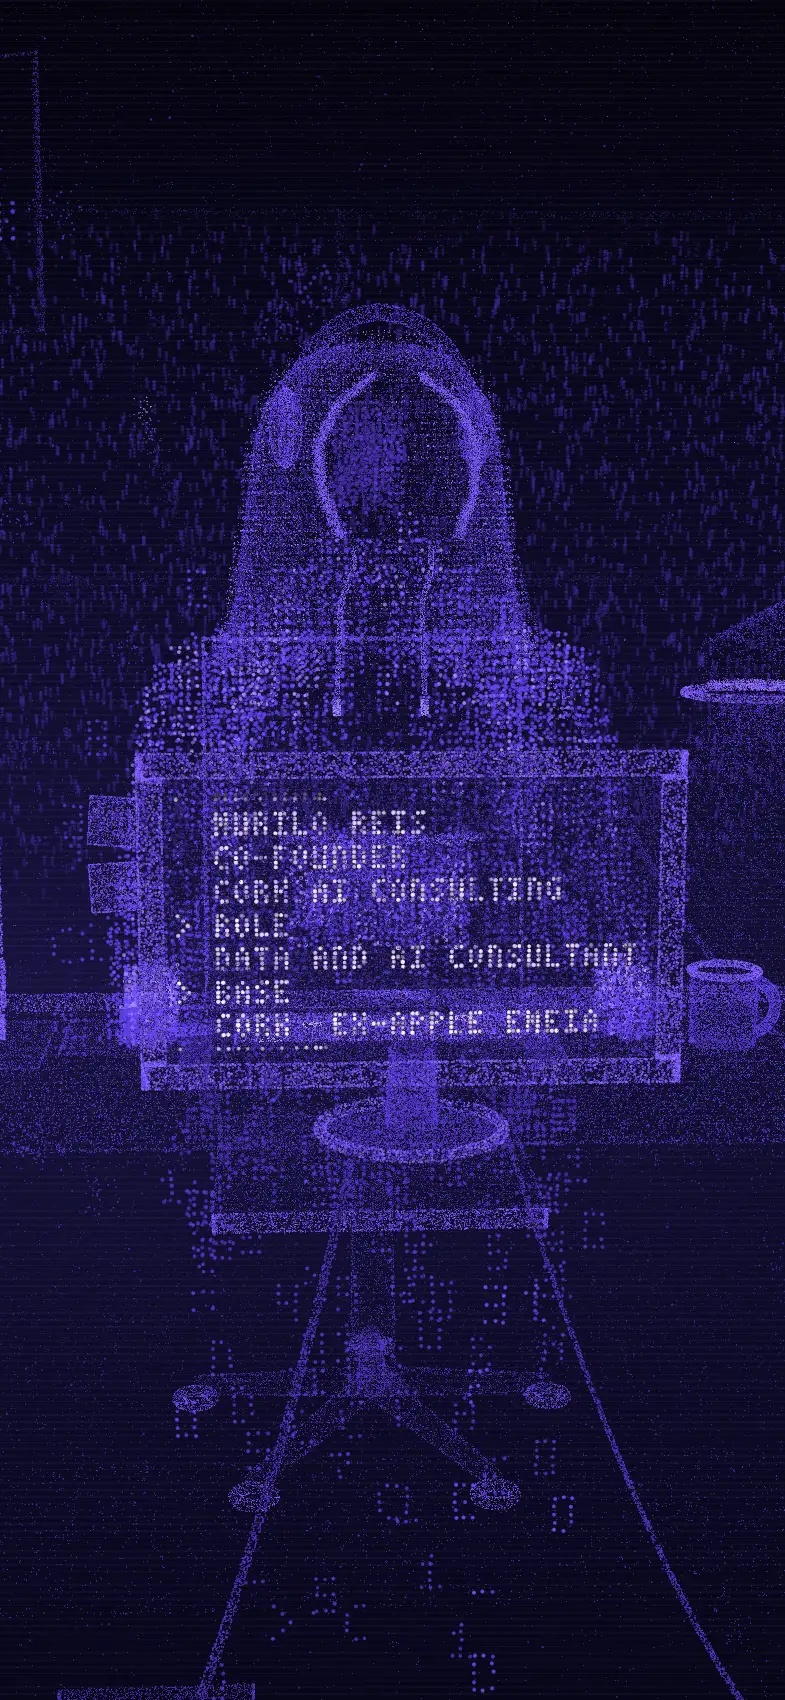
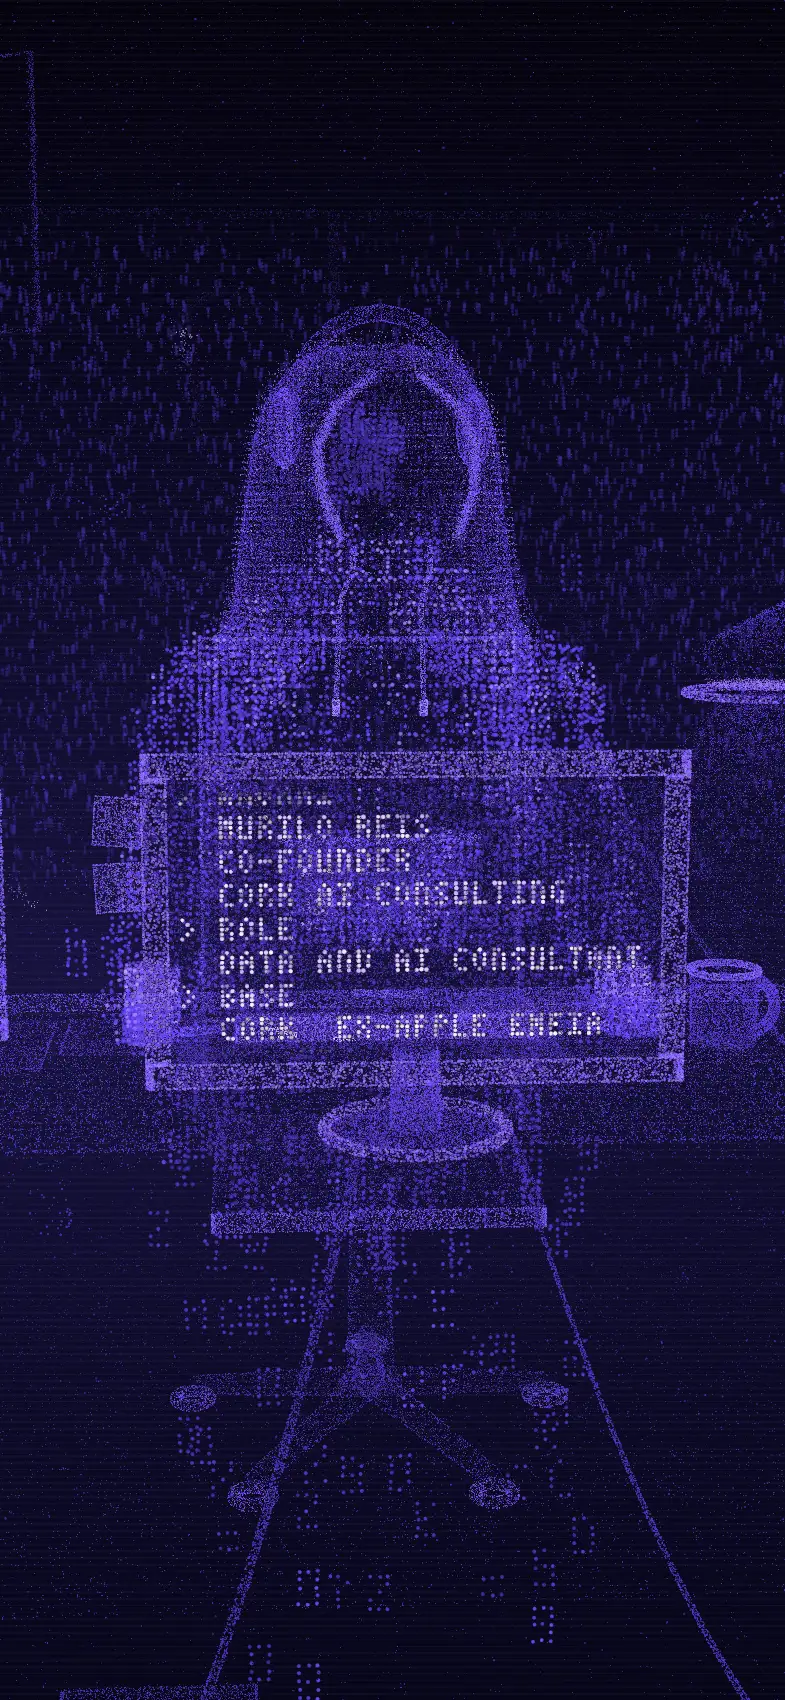
Polish: HUD cursor ring, glidier intro dolly, screen light cast, HUD kickers, experience aligned with LinkedIn
- cursor.ts: a lagging ring that squares into brackets over links (fine
  pointers, motion allowed only).
- Intro: 1.1 Hz scroll spring and ease-in dolly; the monitor now casts
  light onto the desk, keyboard, hands and chest. Posters regenerated.
- Case studies: section kickers in the HUD language, screens zoom on hover.
- Home: portrait gets the corner frame.
- experience.ts mirrors the LinkedIn experience entries (tools lines,
  intros, extra bullets). The LinkedIn 30% efficiency figure is left out
  pending confirmation.

diff --git a/src/data/experience.ts b/src/data/experience.ts
@@ -27,28 +27,32 @@ export const experience: Role[] = [
     logo: '/images/logo-icon.png',
     intro:
       'AI, data and automation for small and mid-sized Irish businesses, co-founded with Douglas Woollam. Every engagement is scoped around a <strong>measurable outcome</strong> — hours returned or cost avoided — and run end to end: discovery, build, validation, handover.',
-    tools: 'Claude Code · Codex CLI · Claude API · MCP · Python · SQL · JavaScript/Node · Swift · Playwright · Vercel · Notion',
+    tools: 'Claude Code · Codex CLI · Claude API · MCP · Python · SQL · JavaScript/Node · Swift · Playwright · n8n · Tableau · Power BI · GCP · Vercel · Notion',
     points: [
       'Built the delivery engine for the <strong>AI Opportunity Assessment</strong>: an agent that turns a discovery-call transcript into a client-branded, ROI-backed report, with an honesty gate that blocks any claim the client didn’t support. Delivered to the first client before launch.',
       'Built a <strong>guardrailed Instagram DM assistant</strong> on Meta’s Messenger Platform that answers customer enquiries 24/7 within strict rules, so it never gives a made-up answer.',
-      'Turned <strong>28 standalone AI workflows</strong> into a shared, version-controlled skills library, and built a knowledge base that syncs Git and Notion automatically as one source of truth.',
-      'Co-built and shipped <strong>BlarneyKey</strong>, a free, open-source macOS dictation app that runs Whisper on the Apple Neural Engine fully offline.',
+      'Designed and launched the company’s <strong>products showcase and site experience</strong>, including a live interactive demo of BlarneyKey, our free, private, offline AI dictation app for macOS — co-built and shipped with Whisper running on the Apple Neural Engine.',
+      'Turned <strong>28 standalone AI workflows</strong> into a shared, version-controlled skills library, so both founders run the same automations for research, content, transcripts and client delivery from one Git repository.',
+      'Built a <strong>self-maintaining knowledge base</strong> that keeps the Git repository and the Notion workspace in sync automatically — one source of truth for decisions, next actions and client history.',
+      'Engineered the <strong>outreach tooling with safety at its core</strong>: approval-gated sending, account-protection rules and recovery plans that keep every customer-facing message under human control.',
+      'Bring enterprise-scale analytics experience to small and medium businesses, starting every engagement with the <strong>AOA framework</strong> (Audit, Optimise, Automate).',
     ],
     tags: ['Co-founder', 'AI agents', 'Outcome-scoped', 'Cork, Ireland'],
   },
   {
-    role: 'Data Analyst',
+    role: 'Data Analyst, EMEIA Sales BPR &amp; Systems',
     org: 'Apple',
     dates: 'Nov 2025 — Oct 2026',
     place: 'Cork, Ireland (Hybrid)',
-    intro: 'EMEIA Sales Business Process Re-engineering &amp; Systems.',
-    tools: 'Python (Pandas, Playwright, Selenium) · Snowflake · SQL · Tableau · Claude Code · Excel',
+    intro: 'Apple’s EMEIA Sales Business Process Re-engineering &amp; Systems team, working across data engineering, analytics and automation.',
+    tools: 'Python (Pandas, Playwright, Selenium) · SQL · Snowflake · Spark · Azure · Tableau · Claude Code · Excel',
     points: [
       'Built pipelines, automations and dashboards that Account Executives and senior leadership used to run and track <strong>multi-billion-dollar sales programmes</strong> across EMEIA.',
       'Co-built an automated <strong>Python, Playwright, Snowflake and Claude Code agent pipeline</strong> that approves or rejects customers against programme business rules, eliminating hours of daily manual review and sharply reducing false rejections.',
       'Developed Playwright browser-automation workflows replacing manual data collection, validation and reporting for the team.',
       'Built <strong>Tableau dashboards on live Snowflake data</strong>, giving programme leadership visibility of sales performance, KPIs and underperforming regions.',
       'Built predictive scripts and statistical models on programme sales data to support forecasting and targeted outreach to historical customers.',
+      'Supported sales business process re-engineering across regions by managing large-scale datasets and enforcing data accuracy and integrity in every report the team shipped.',
     ],
     tags: ['EMEIA Sales', 'Agent pipeline', 'Snowflake · Tableau'],
   },
@@ -58,6 +62,8 @@ export const experience: Role[] = [
     dates: 'Oct 2024 — Sep 2026',
     place: 'Remote',
     logo: '/images/logo-icon.png',
+    intro: 'Data and automation projects for multiple clients, from first consultation to deployed solution. Continued as Cork AI Consulting from September 2026.',
+    tools: 'Python (Pandas, Playwright, Selenium) · SQL · Spark · BigQuery · Azure · RPA (UiPath, PyAutoGUI) · n8n · Zapier · Power BI · Git',
     points: [
       '<strong>Reduced manual effort by up to 80%</strong> for client teams with custom Python and RPA automation, turning hours of multi-system handling into unattended scheduled runs.',
       'Managed the full lifecycle for several concurrent clients, from consultation to deployed data and automation solutions, with documented handovers in Git/GitHub/GitLab.',
@@ -71,11 +77,14 @@ export const experience: Role[] = [
     dates: 'Nov 2022 — Oct 2024',
     place: 'São Paulo, Brazil',
     logo: '/images/logos/porto.png',
+    intro: 'Management Information area of Porto, one of Brazil’s largest insurance groups: the data pipelines, automations and dashboards behind the area’s daily reporting.',
+    tools: 'Python (Pandas, NumPy, Selenium, BeautifulSoup, PyAutoGUI) · SQL · Google BigQuery · GCP · Looker Studio · AppSheet · Google Apps Script · n8n · Excel',
     points: [
-      'Engineered and maintained scalable <strong>ETL pipelines moving terabytes</strong> of data from disparate sources into <strong>Google BigQuery</strong>, enforcing integrity and governance.',
+      'Engineered and maintained scalable <strong>ETL pipelines moving terabytes</strong> of data from CSV, Excel, TXT and legacy sources into <strong>Google BigQuery</strong>, enforcing integrity and governance.',
       'Optimised warehouse performance with complex SQL and stored procedures, cutting query times on heavy analytical workloads.',
-      'Delivered <strong>BI dashboards</strong> that guided strategic decisions, translating stakeholder requirements into technical solutions.',
-      'Drove process improvement with AppSheet apps and <strong>n8n AI workflows</strong>, and automated extraction from legacy systems (RPA) and external sites (web scraping).',
+      'Built <strong>RPA processes</strong> with Selenium and PyAutoGUI to extract data from legacy systems with no direct database access, and web-scraping tools with Beautiful Soup for sites with no export option.',
+      'Created <strong>Looker Studio dashboards</strong> of daily KPIs for analysts, managers and directors, translating stakeholder requirements into technical solutions.',
+      'Drove process improvement with AppSheet apps, <strong>n8n AI workflows</strong> and Google Apps Script automations such as scheduled daily reports.',
     ],
     tags: ['Terabytes → BigQuery', 'ETL · SQL', 'n8n · AppSheet'],
   },
@@ -85,8 +94,12 @@ export const experience: Role[] = [
     dates: 'Dec 2021 — May 2022',
     place: 'São Paulo, Brazil',
     logo: '/images/logos/marcelo-tostes.png',
+    intro: 'First point of contact for IT in a busy law firm, and the first hands-on role with data and automation.',
+    tools: 'Excel · VBA · Python · Microsoft Office · Windows · networking',
     points: [
-      'First point of contact for IT in a busy legal office: hardware and software support, system maintenance and network configuration.',
+      'Handled hardware, software and network issues for lawyers and staff, keeping systems updated, stable and secure.',
+      'Built Excel spreadsheets and reports for the office and ran data analysis to support the team’s day-to-day decisions.',
+      'Wrote small automation scripts and macros in <strong>VBA and Python</strong> that removed repetitive manual tasks, and trained staff on the tools they used daily.',
     ],
     tags: ['IT support', 'Systems &amp; networks'],
   },

diff --git a/src/scripts/pointcloud.ts b/src/scripts/pointcloud.ts
@@ -2409,6 +2409,12 @@ const VERT = /* glsl */ `
     vec4 mv = modelViewMatrix * vec4(pos, 1.0);
     float depth = -mv.z;
 
+    // ---- screen light: the monitor casts onto the desk, keyboard, hands
+    // and chest in front of it. A plain falloff from the panel's centre in
+    // the centred room (0, 0, -0.5), skipped for the screen's own points.
+    vec3 dcast = pos - vec3(0.0, 0.0, -0.5);
+    float scast = exp(-dot(dcast * vec3(1.0, 1.3, 1.0), dcast) * 7.0) * (1.0 - isScreen) * (1.0 - isCode);
+
     // ---- depth of field: how far this point sits off the focal plane,
     // as a 0..1 blur amount. The sky is infinitely far and stays as is.
     vCoc = clamp(abs(depth - uFocus) * uDof, 0.0, 1.0) * (1.0 - isSky);
@@ -2474,7 +2480,8 @@ const VERT = /* glsl */ `
       + isStream * pulse * 1.5
       + isGlyph * step(0.88, grand) * 0.55
       + isTrace * (0.2 + traceHead * 0.9)
-      + pressed * 0.9;
+      + pressed * 0.9
+      + scast * (0.28 + uScreenGlow * 0.3);
 
     // Deliberately NOT multiplied by fog: fog darkens the colour
     // instead. Folding it into alpha as well made distant geometry
@@ -2923,7 +2930,9 @@ function boot(wrap: HTMLElement, canvas: HTMLCanvasElement) {
     // still snaps on the first frame after a wheel burst; a spring is
     // C1-continuous, which is what makes the dolly feel like one glide.
     const target = clamp01(readProgress());
-    const omega = 2 * Math.PI * 1.5;
+    // 1.1 Hz: a wheel burst resolves over ~0.6 s, which reads as one
+    // glide rather than a nudge. Any lower and a fast scroll lags the hero.
+    const omega = 2 * Math.PI * 1.1;
     vel += (omega * omega * (target - p) - 2 * omega * vel) * dt;
     p += vel * dt;
 
@@ -2940,7 +2949,9 @@ function boot(wrap: HTMLElement, canvas: HTMLCanvasElement) {
 
     // Dolly, then orbit the pointer offset around the aim point, which
     // is itself travelling toward the screen.
-    camera.position.lerpVectors(START, END, p * p);
+    // Ease-in-cubic at the start, so the first wheel tick barely moves
+    // the camera and the approach gathers pace into the screen.
+    camera.position.lerpVectors(START, END, p * p * (0.6 + 0.4 * p));
     lookAt.lerpVectors(LOOK, LOOK_END, smoothstep01(0.15, 1, p));
 
     // Parallax authority fades out on approach — the radius to the

diff --git a/src/scripts/cursor.ts b/src/scripts/cursor.ts
@@ -1,0 +1,45 @@
+// ---------------------------------------------------------------------------
+// cursor.ts — a lagging HUD ring that follows the pointer.
+//
+// The native cursor stays; this adds a thin ring that trails it and opens
+// into corner brackets over anything interactive, which ties the pointer to
+// the site's readout language. Fine pointers only, never under reduced
+// motion, and it costs one transform per frame.
+// ---------------------------------------------------------------------------
+import { prefersReduced } from './dom';
+
+const fine = matchMedia('(hover: hover) and (pointer: fine)');
+if (fine.matches && !prefersReduced()) {
+  const ring = document.createElement('div');
+  ring.className = 'hud-cursor';
+  ring.setAttribute('aria-hidden', 'true');
+  document.body.appendChild(ring);
+
+  let tx = -100;
+  let ty = -100;
+  let x = tx;
+  let y = ty;
+  let shown = false;
+  let raf = 0;
+
+  const frame = () => {
+    x += (tx - x) * 0.22;
+    y += (ty - y) * 0.22;
+    ring.style.transform = `translate(${x.toFixed(1)}px, ${y.toFixed(1)}px) translate(-50%, -50%)`;
+    raf = Math.abs(tx - x) + Math.abs(ty - y) > 0.2 ? requestAnimationFrame(frame) : 0;
+  };
+  const kick = () => { if (!raf) raf = requestAnimationFrame(frame); };
+
+  addEventListener('pointermove', (e) => {
+    tx = e.clientX;
+    ty = e.clientY;
+    if (!shown) { shown = true; ring.classList.add('is-on'); x = tx; y = ty; }
+    const over = (e.target as Element | null)?.closest?.('a, button, [role="button"], input, select, textarea, label, summary');
+    ring.classList.toggle('is-link', !!over);
+    kick();
+  }, { passive: true });
+  addEventListener('pointerdown', () => ring.classList.add('is-down'), { passive: true });
+  addEventListener('pointerup', () => ring.classList.remove('is-down'), { passive: true });
+  document.addEventListener('pointerleave', () => ring.classList.remove('is-on'));
+  document.addEventListener('pointerenter', () => { if (shown) ring.classList.add('is-on'); });
+}

diff --git a/src/styles/motion.css b/src/styles/motion.css
@@ -339,3 +339,41 @@ html.mo-js .mo-bar__fill { width: 0; }
   .mo-scale { scale: none !important; }
   .mo-spotlight::before { display: none; }
 }
+
+/* ============================================================
+   HUD cursor ring (cursor.ts) — fine pointers, motion allowed.
+   ============================================================ */
+.hud-cursor {
+  position: fixed;
+  top: 0;
+  left: 0;
+  z-index: 9999;
+  width: 28px;
+  height: 28px;
+  border: 1.5px solid var(--color-primary);
+  border-radius: 50%;
+  opacity: 0;
+  pointer-events: none;
+  mix-blend-mode: difference;
+  transition: opacity 0.25s ease, width 0.2s var(--reveal-ease), height 0.2s var(--reveal-ease), border-radius 0.2s ease, border-color 0.2s ease;
+  will-change: transform;
+}
+.hud-cursor.is-on { opacity: 0.9; }
+/* Over a link the ring squares off into corner brackets. */
+.hud-cursor.is-link {
+  width: 36px;
+  height: 36px;
+  border-radius: 0;
+  border-color: transparent;
+  background:
+    linear-gradient(var(--color-primary), var(--color-primary)) 0 0 / 10px 1.5px no-repeat,
+    linear-gradient(var(--color-primary), var(--color-primary)) 0 0 / 1.5px 10px no-repeat,
+    linear-gradient(var(--color-primary), var(--color-primary)) 100% 0 / 10px 1.5px no-repeat,
+    linear-gradient(var(--color-primary), var(--color-primary)) 100% 0 / 1.5px 10px no-repeat,
+    linear-gradient(var(--color-primary), var(--color-primary)) 0 100% / 10px 1.5px no-repeat,
+    linear-gradient(var(--color-primary), var(--color-primary)) 0 100% / 1.5px 10px no-repeat,
+    linear-gradient(var(--color-primary), var(--color-primary)) 100% 100% / 10px 1.5px no-repeat,
+    linear-gradient(var(--color-primary), var(--color-primary)) 100% 100% / 1.5px 10px no-repeat;
+}
+.hud-cursor.is-down { width: 20px; height: 20px; }
+@media (hover: none), (prefers-reduced-motion: reduce) { .hud-cursor { display: none; } }

diff --git a/src/styles/intro.css b/src/styles/intro.css
@@ -239,6 +239,7 @@
   color: #fff;
   transform: translateY(calc(-50% - var(--itm-p) * 120px));
   opacity: calc(1 - var(--itm-p) * 2.8);
+  transition: opacity 0.12s linear, transform 0.12s linear;
 }
 .itm-id.is-gone { visibility: hidden; }
 /* Corner marks: two L brackets, top-left and bottom-right, so the block
